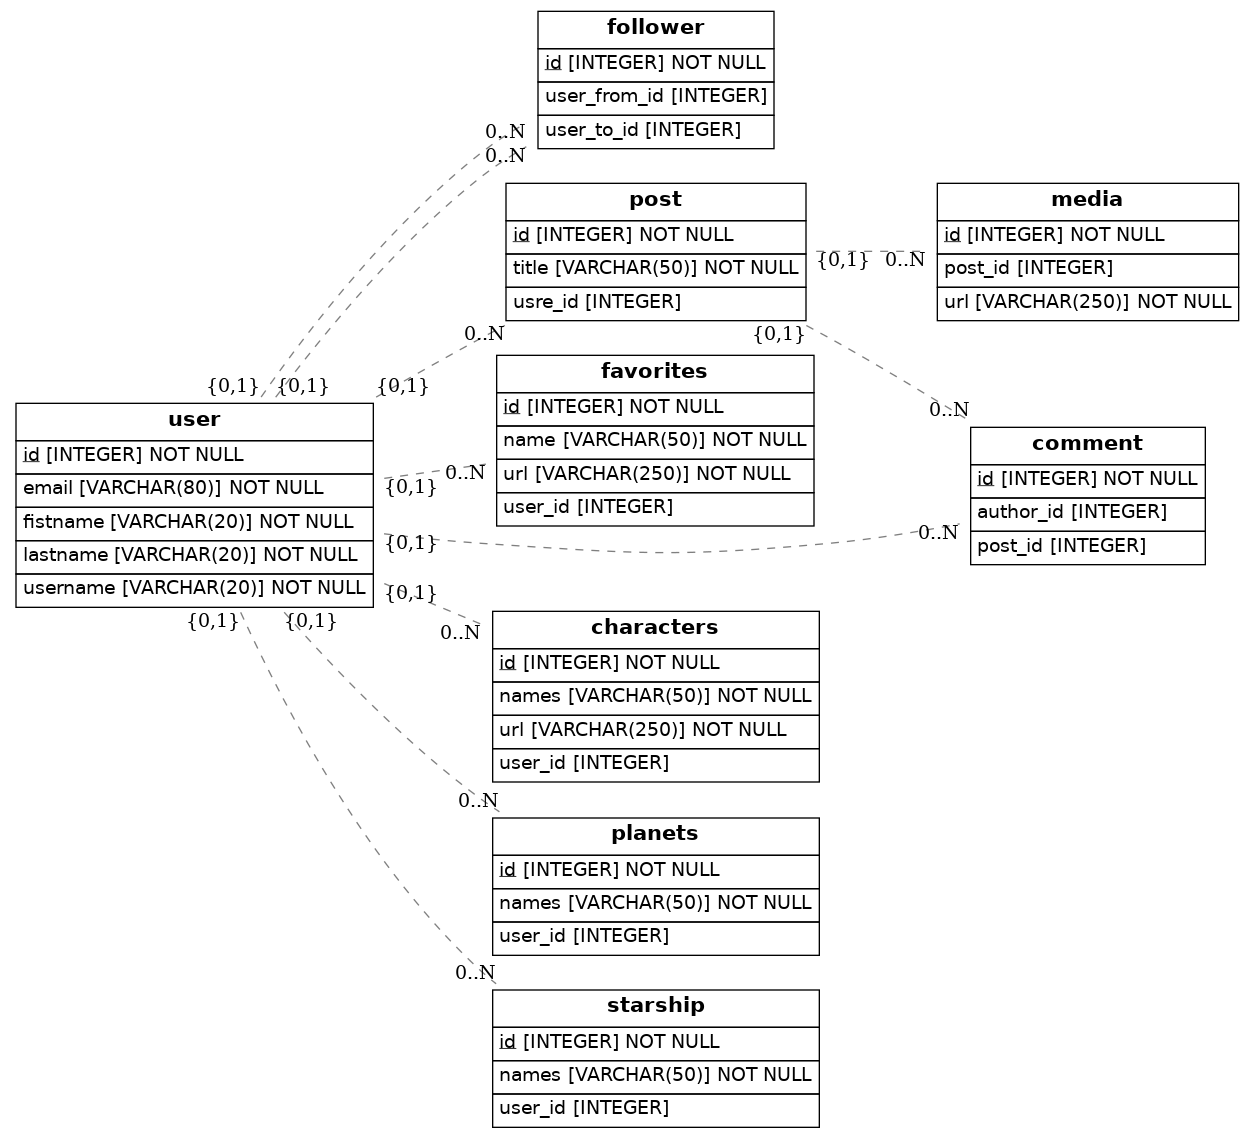
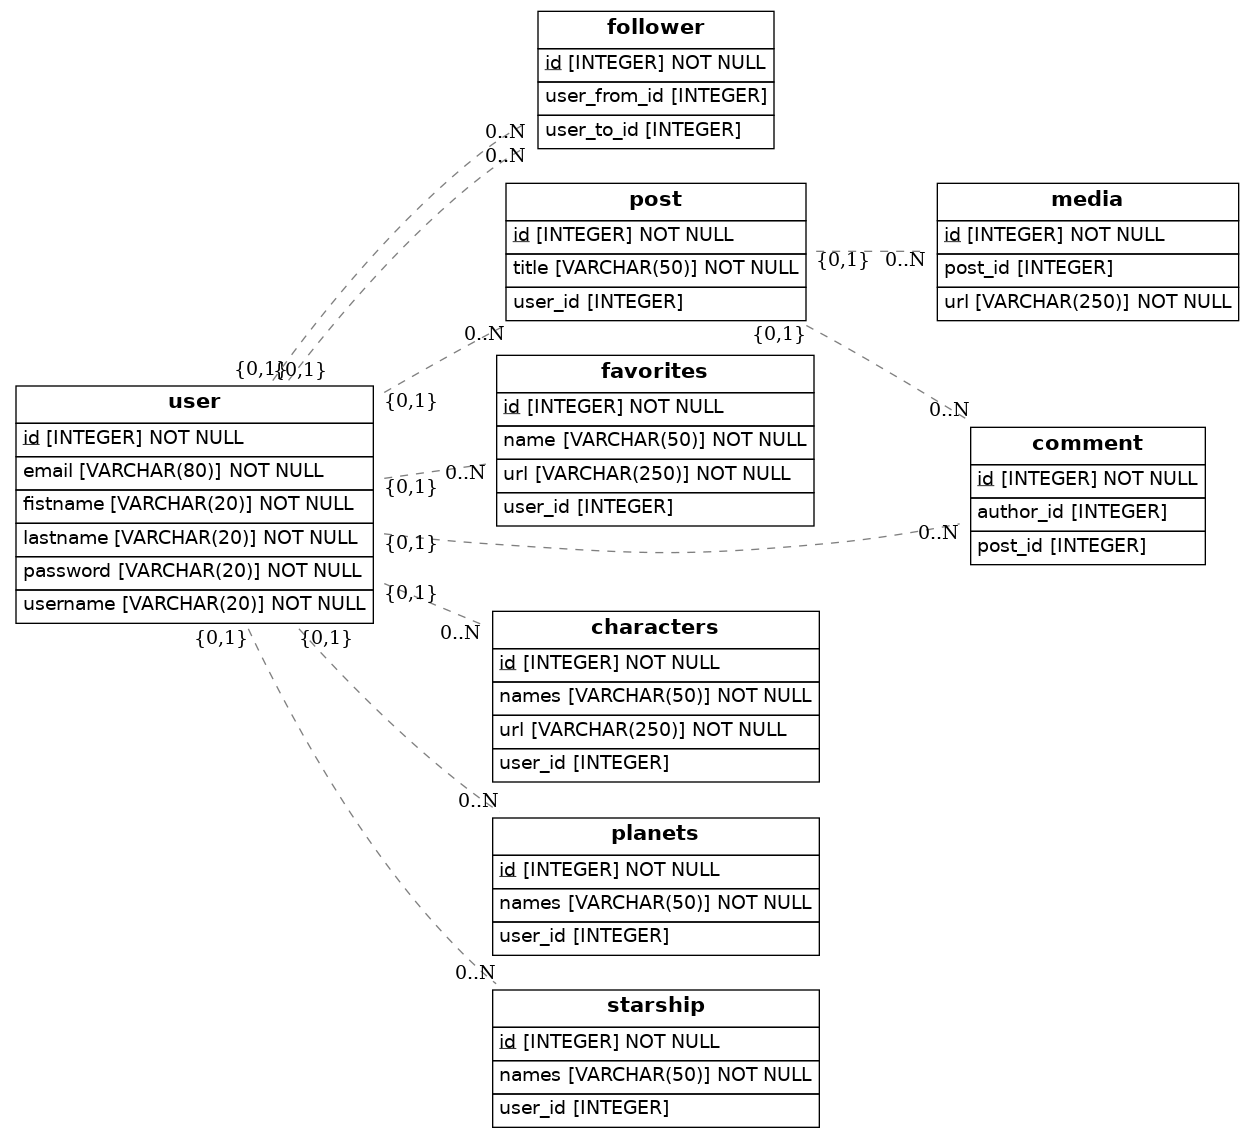
Mapeo actualizado

Changed region(s): [[0.0, 0.3078, 0.3418, 0.5849], [0.4351, 0.2463, 0.5594, 0.277]]

diff --git a/src/models.py b/src/models.py
@@ -16,6 +16,7 @@ class User(Base):
     fistname = Column(String(20), nullable=False)
     lastname = Column(String(20), nullable=False)
     email = Column(String(80), nullable=False)
+    password = Column(String(20), nullable=False)
 
 
     def to_dict(self):
@@ -31,7 +32,7 @@ class Follower(Base):
 class Post(Base):
      __tablename__ = 'post'
      id = Column(Integer, primary_key=True)
-     usre_id = Column(Integer, ForeignKey('user.id'))
+     user_id = Column(Integer, ForeignKey('user.id'))
      title = Column(String(50), nullable=False) 
      user = relationship(User)
      
